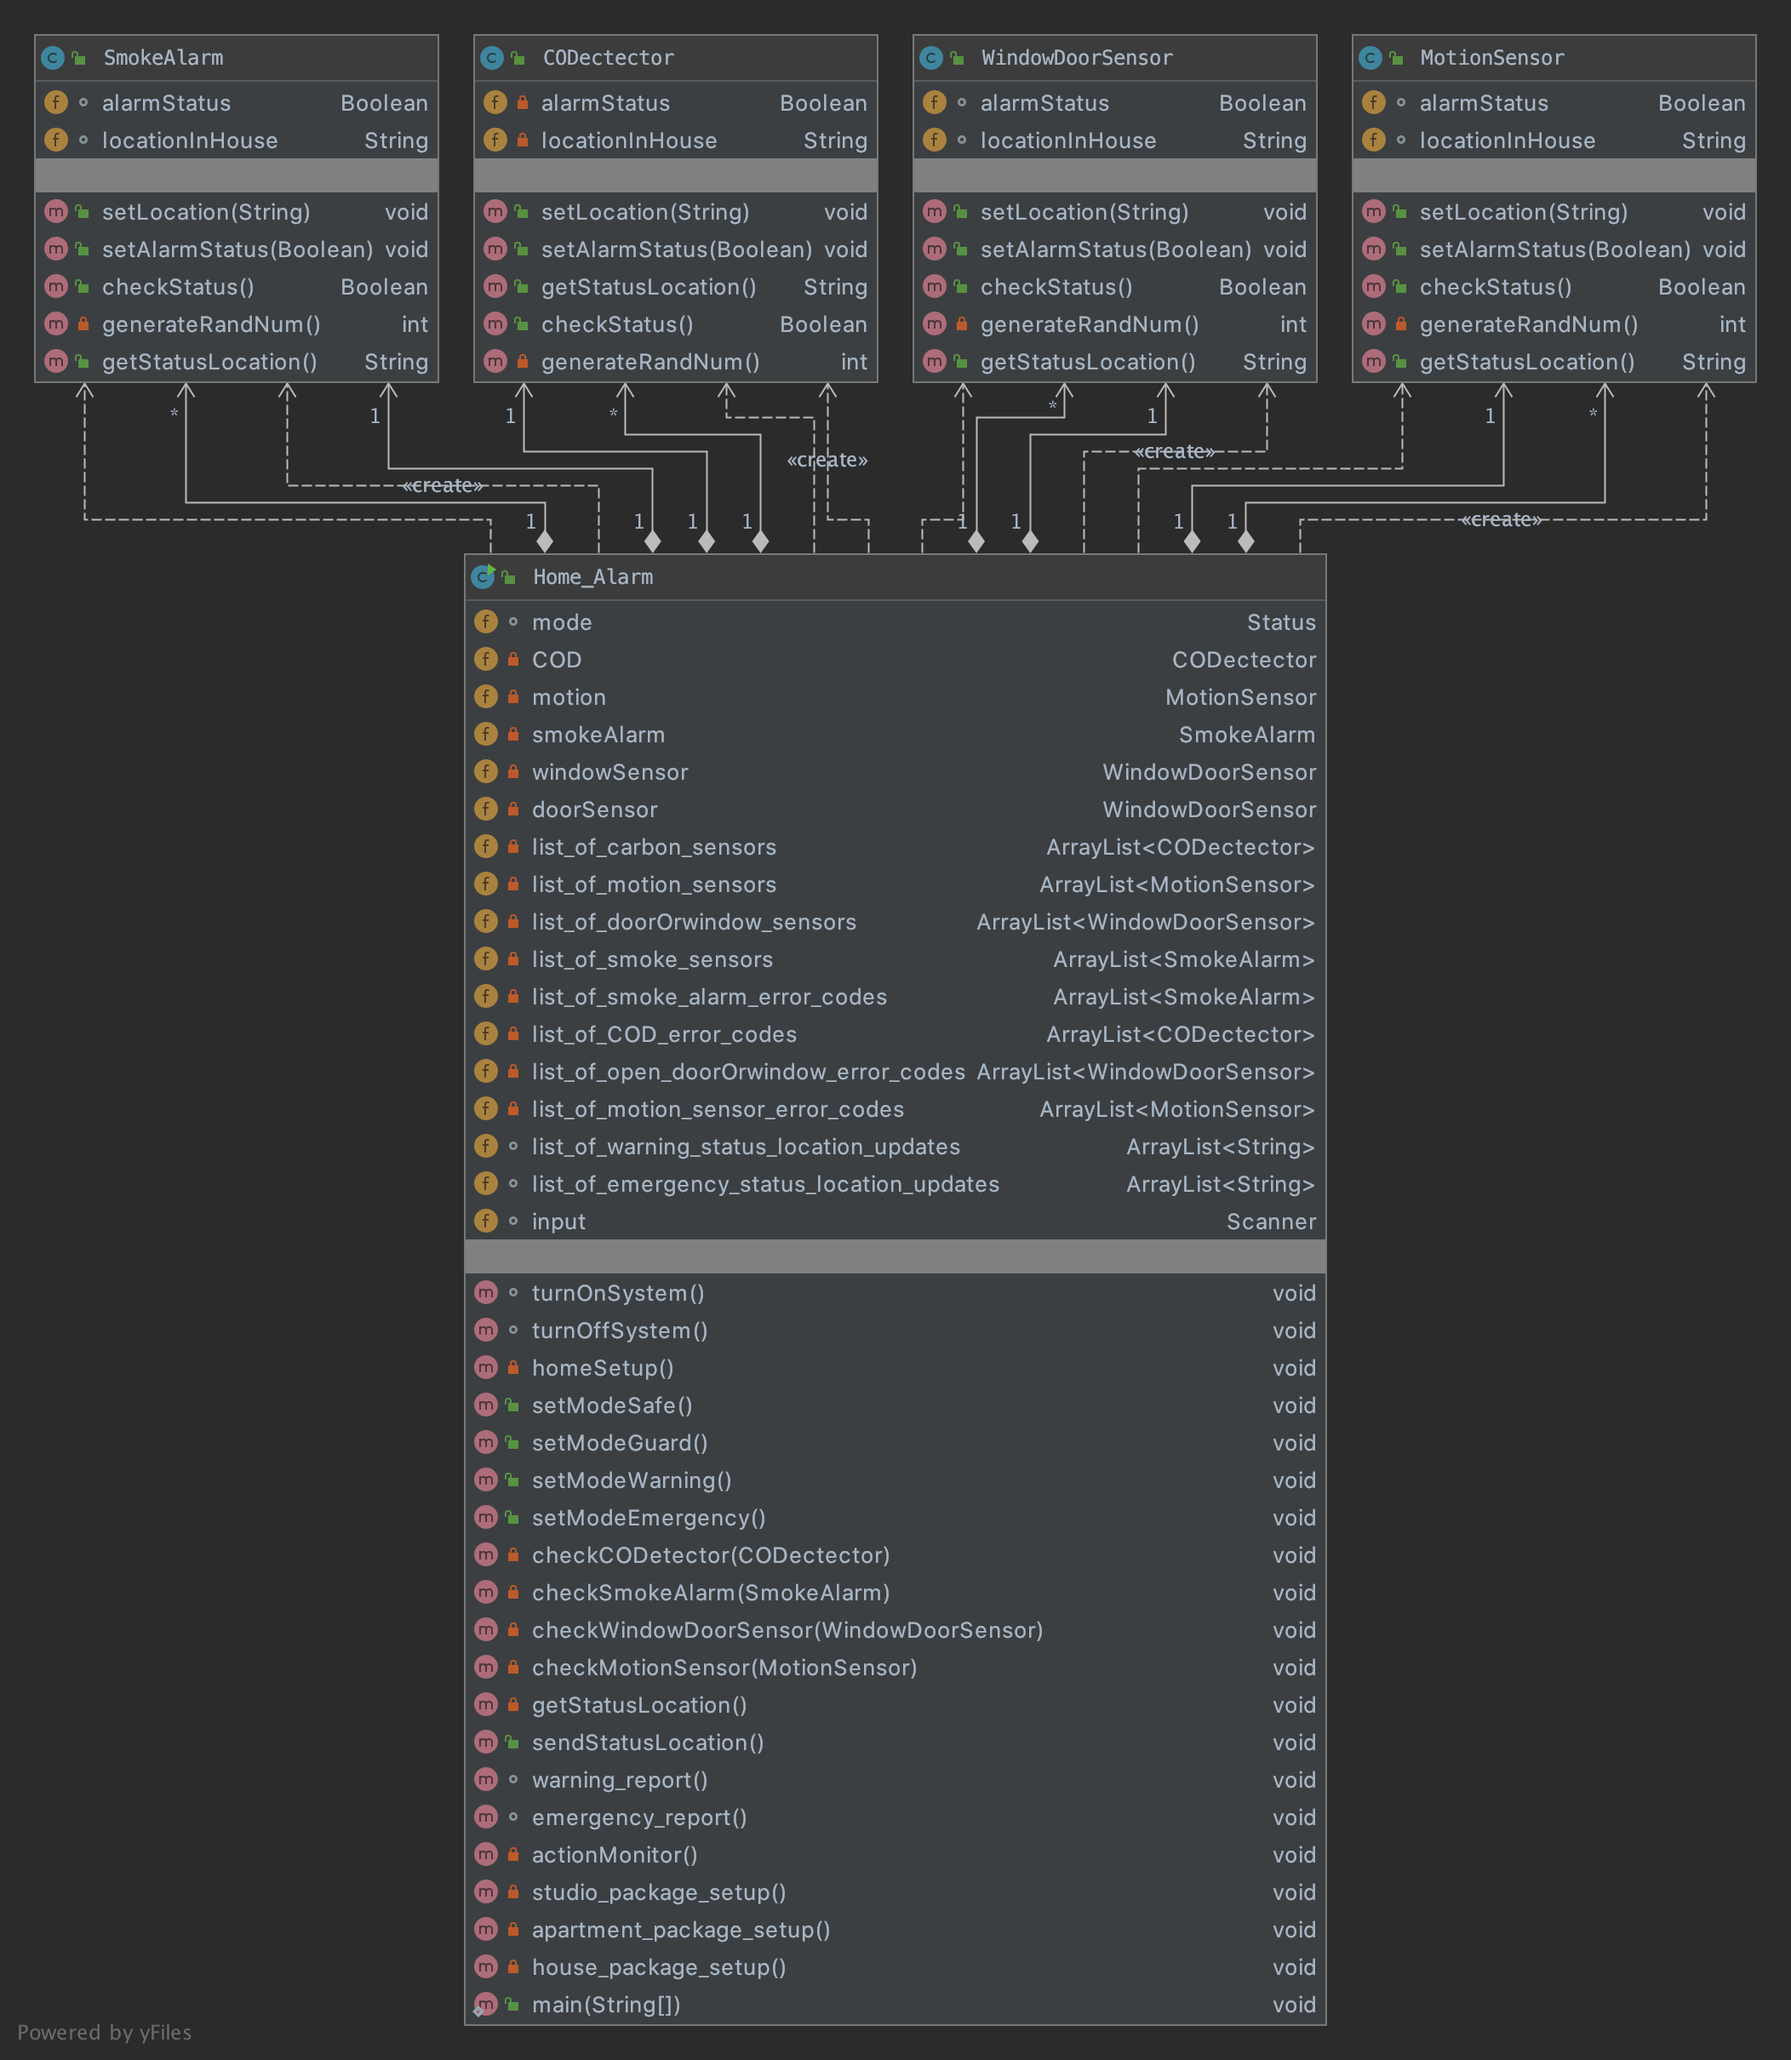
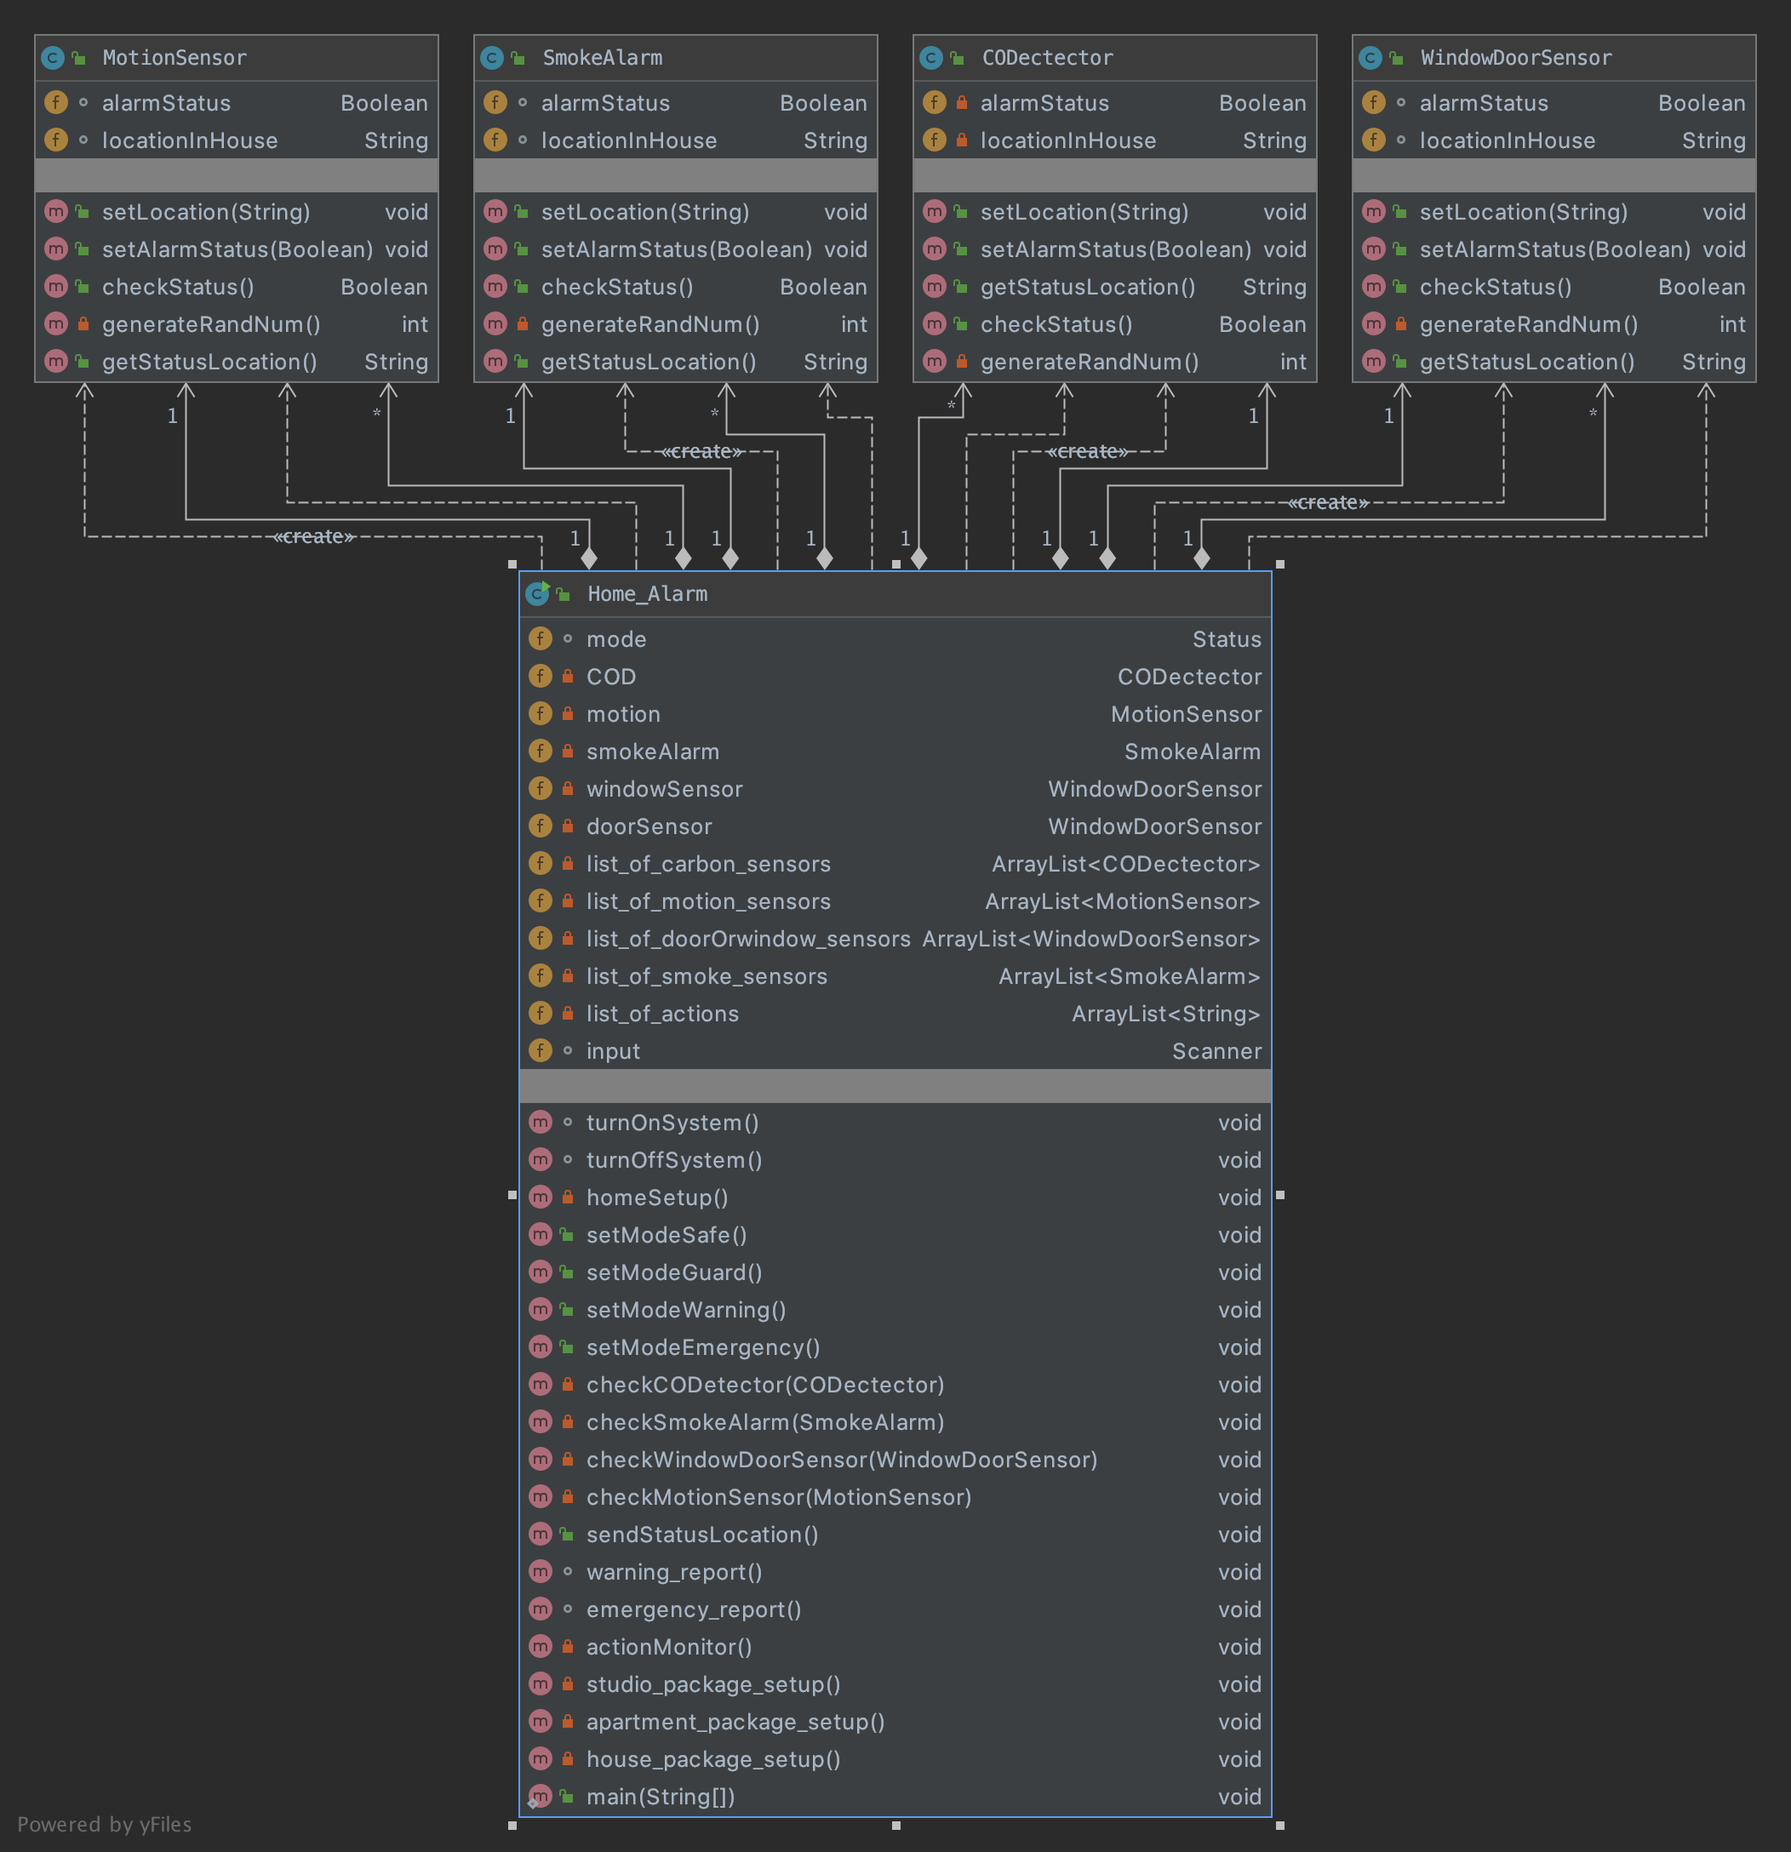
Updated Home_Alarm to more realistic senarios, and cleaned up the code

Changed region(s): [[0.0, 0.0, 0.9886, 1.0], [0.0927, 0.25, 0.1236, 0.2812]]

diff --git a/Code_base/Home_Alarm.java b/Code_base/Home_Alarm.java
@@ -11,12 +11,7 @@ public class Home_Alarm {
     private ArrayList<MotionSensor> list_of_motion_sensors = new ArrayList<MotionSensor>();
     private ArrayList<WindowDoorSensor> list_of_doorOrwindow_sensors = new ArrayList<>();
     private ArrayList<SmokeAlarm> list_of_smoke_sensors = new ArrayList<SmokeAlarm>();
-    private ArrayList<SmokeAlarm> list_of_smoke_alarm_error_codes = new ArrayList<SmokeAlarm>();
-    private ArrayList<CODectector> list_of_COD_error_codes = new ArrayList<CODectector>();
-    private ArrayList<WindowDoorSensor> list_of_open_doorOrwindow_error_codes = new ArrayList<WindowDoorSensor>();
-    private ArrayList<MotionSensor> list_of_motion_sensor_error_codes = new ArrayList<MotionSensor>();
-    ArrayList<String> list_of_warning_status_location_updates = new ArrayList<String>();
-    ArrayList<String> list_of_emergency_status_location_updates = new ArrayList<String>();
+    private ArrayList<String> list_of_actions = new ArrayList<String>();
     Scanner input = new Scanner(System.in);
 
 
@@ -49,10 +44,9 @@ public class Home_Alarm {
         smokeAlarm = new SmokeAlarm(e);
         list_of_smoke_sensors.add(smokeAlarm);
         setModeSafe();
-        actionMonitor();
-//        getStatusLocation();
-//        sendStatusLocation();
         turnOnSystem();
+        sendStatusLocation();
+        turnOffSystem();
     }
 
 
@@ -63,10 +57,11 @@ public class Home_Alarm {
         if(mode == Status.SAFE){
             setModeGuard();
             actionMonitor();
-        }
-        else{
-            getStatusLocation();
-            sendStatusLocation();
+        } else if (mode == Status.WARNING){
+            warning_report();
+            //if problem is fixed then setModeGuard()
+        } else if(mode == Status.GUARD){
+            System.out.println("System is already engaged");
         }
 
 
@@ -77,6 +72,7 @@ public class Home_Alarm {
         if(mode == Status.GUARD){
             setModeSafe();
             actionMonitor();
+            sendStatusLocation();
         }
 
     }
@@ -134,104 +130,93 @@ public class Home_Alarm {
 
     private void checkCODetector(CODectector sensor){
         sensor.checkStatus();
-        if(sensor.checkStatus() == true) {
+        if(sensor.checkStatus() == true && mode == Status.SAFE) {
             setModeWarning();
-            list_of_COD_error_codes.add(sensor);
-        }
-        if(list_of_COD_error_codes.size() > 7){
+            list_of_actions.add(mode +":CO2DETECTOR:" +sensor.getStatusLocation());
+        }else if (sensor.checkStatus() == true && mode == Status.WARNING){
             setModeEmergency();
-            list_of_COD_error_codes.add(sensor);
+            list_of_actions.add(mode +":CO2DETECTOR:" +sensor.getStatusLocation());
+        }else{
+            setModeSafe();
+            list_of_actions.add(mode +":CO2DETECTOR:" +sensor.getStatusLocation());
+
         }
     }
 
     private void checkSmokeAlarm(SmokeAlarm sensor){
         sensor.checkStatus();
-        if(sensor.checkStatus() == true){
+        if(sensor.checkStatus() == true && mode == Status.SAFE){
             setModeWarning();
-        list_of_smoke_alarm_error_codes.add(sensor);
-        }
-
-        if(list_of_smoke_alarm_error_codes.size() > 7) {
+            list_of_actions.add(mode +":SMOKEALARM:" +sensor.getStatusLocation());
+        }else if(sensor.checkStatus() == true && mode == Status.WARNING){
             setModeEmergency();
-            list_of_smoke_alarm_error_codes.add(sensor);
-        }
+            list_of_actions.add(mode +":SMOKEALARM:" +sensor.getStatusLocation());
+        }else{
+            setModeSafe();
+            list_of_actions.add(mode +":SMOKEALARM:" +sensor.getStatusLocation());
 
+        }
     }
     private void checkWindowDoorSensor(WindowDoorSensor sensor){
         sensor.checkStatus();
-        if(sensor.checkStatus() == true){
+        if(sensor.checkStatus() == true && mode == Status.SAFE) {
             setModeWarning();
-            list_of_open_doorOrwindow_error_codes.add(sensor);}
-
-        if(list_of_open_doorOrwindow_error_codes.size() > 5) {
+            list_of_actions.add(mode +":WINDOW/DOOR:" +sensor.getStatusLocation());
+        }else if(sensor.checkStatus() == true && mode == Status.WARNING){
             setModeEmergency();
-
-            list_of_open_doorOrwindow_error_codes.add(sensor);
+            list_of_actions.add(mode +":WINDOW/DOOR:" +sensor.getStatusLocation());
+        }else if(sensor.checkStatus() == true && mode == Status.GUARD){
+            setModeEmergency();
+            list_of_actions.add(mode +":WINDOW/DOOR:" +sensor.getStatusLocation());
         }
 
     }
 
     private void checkMotionSensor(MotionSensor sensor){
         sensor.checkStatus();
-        if(sensor.checkStatus() == true)
-            setModeWarning();
-            list_of_motion_sensor_error_codes.add(sensor);
-
-    }
-
-    private void getStatusLocation(){
-
-        if(mode == Status.WARNING) {
-            for (CODectector COD : list_of_COD_error_codes) {
-                list_of_warning_status_location_updates.add(mode +":CO2 ALARM:"+COD.getStatusLocation());
-            }
-
-            for (WindowDoorSensor windowDoorSensor : list_of_open_doorOrwindow_error_codes) {
-                list_of_warning_status_location_updates.add(mode +":WINDOW/DOOR/AJAR:"+windowDoorSensor.getStatusLocation());
-            }
-
-            for (MotionSensor motionSensor : list_of_motion_sensor_error_codes) {
-                list_of_warning_status_location_updates.add(mode +":MOTION:"+motionSensor.getStatusLocation());
-            }
-
+        if(sensor.checkStatus() == true && mode == Status.SAFE){
+            setModeSafe();
+            list_of_actions.add(mode +":MOTION:" +sensor.locationInHouse);
+        }else if(sensor.checkStatus() == true && mode == Status.GUARD){
+            setModeEmergency();
+            list_of_actions.add(mode +":MOTION:" +sensor.locationInHouse);
         }
-        if(mode == Status.EMERGENCY) {
-            for (SmokeAlarm smokeAlarm : list_of_smoke_alarm_error_codes) {
-                list_of_emergency_status_location_updates.add(mode + ":SMOKEALARM:"+ smokeAlarm.getStatusLocation());
-            }
 
-            for(CODectector COD : list_of_COD_error_codes){
-                list_of_emergency_status_location_updates.add(mode +":CO2 ALARM:"+COD.getStatusLocation());
-            }
-
-            for(WindowDoorSensor windowDoorSensor: list_of_open_doorOrwindow_error_codes){
-                list_of_emergency_status_location_updates.add(mode +":WINDOW/DOOR AJAR:"+windowDoorSensor.getStatusLocation());
-            }
-
-        }
 
 
     }
 
-    public void sendStatusLocation(){  // I want this to be a string
+
+    public void sendStatusLocation(){
         warning_report();
         emergency_report();
     }
     void warning_report(){
-        for (String WarningReport : list_of_warning_status_location_updates) {
-            System.out.println(WarningReport);
+        int count = 1;
+        for (String WarningReport : list_of_actions) {
+            String[] actions = WarningReport.split(":");
+            if(actions[0].equals( "WARNING")) {
+                System.out.println(WarningReport + " " +  count );
+                count++;
+            }
         }
 //        System.out.println(list_of_warning_status_location_updates.size());
     }
     void emergency_report(){
-        for (String EmergencyReport : list_of_emergency_status_location_updates) {
-            System.out.println(EmergencyReport);
+        int count = 1;
+        for (String EmergencyReport : list_of_actions) {
+            String[] actions = EmergencyReport.split(":");
+            if(actions[0].equals("EMERGENCY")){
+                System.out.println(EmergencyReport + " " + count);
+                count++;
+            }
+
         }
-//        System.out.println(list_of_emergency_status_location_updates.size());
+
     }
 
     private void actionMonitor(){
-        for(int i = 0; i < 500; i++) {
+        for(int i = 0; i < 125; i++) {
             for (CODectector COD : list_of_carbon_sensors) {
                 checkCODetector(COD);
             }
@@ -246,13 +231,6 @@ public class Home_Alarm {
             }
         }
     }
-
-
-
-
-
-
-
 
     /**
     * These are standard packages to illustrate a range of sensors.
@@ -410,7 +388,7 @@ public class Home_Alarm {
 
     public static void main(String[] args) {
 
-        Home_Alarm test = new Home_Alarm("LivingRoom","FrontDoor","LivingRoom","Bedroom","Kitchen");
+        new Home_Alarm("LivingRoom","FrontDoor","LivingRoom","Bedroom","Kitchen");
 
 
 
